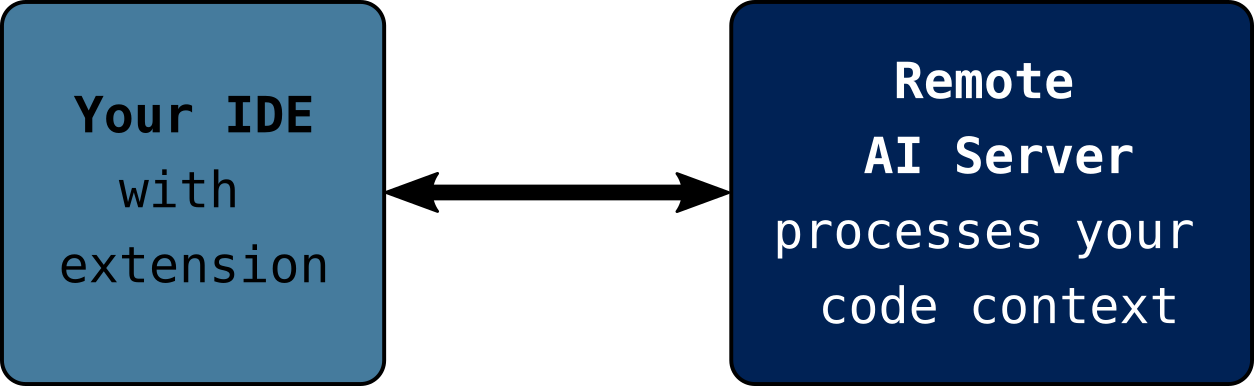
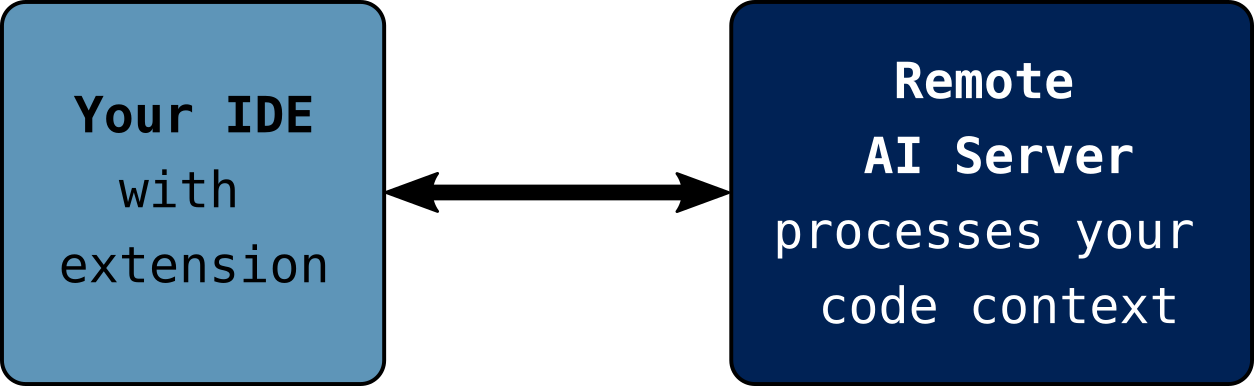
Updated colors for better visibility

Changed region(s): [[0.0, 0.0, 0.311, 0.9948]]

diff --git a/content/security.md b/content/security.md
@@ -19,33 +19,10 @@
 AI coding assistants introduce new attack surfaces to software development.
 Understanding these risks is essential for responsible use.
 
+```{figure} img/security.png
+:alt: The security landscape when using AI for coding with common risks
+:width: 100%
 ```
-+------------------+
-|     You          |
-+--------+---------+
-         |
-         | Prompts, code context
-         v
-+--------+---------+                +-------------------+
-|   AI Service     | - retrieval -> | Attackers:        |
-|                  |                | - Prompt injection|
-|  (processes your |                | - Training data   |
-|   code, returns  | <- response -  |   poisoning       |
-|   suggestions)   |                +-------------------+
-+--------+---------+
-         |
-         | Generated code
-         v
-+--------+---------+     +-------------------+
-|   Your System    | <-- | Risks:            |
-|                  |     | - Hallucinated    |
-|  (runs code,     |     |   packages        |
-|   installs pkgs, |     | - Vulnerable code |
-|   accesses data) |     | - Data exposure   |
-+------------------+     +-------------------+
-```
-*Note: the image was generated with Claude code*
-
 
 ## Risk 1: Hallucinated packages (Slopsquatting)
 
